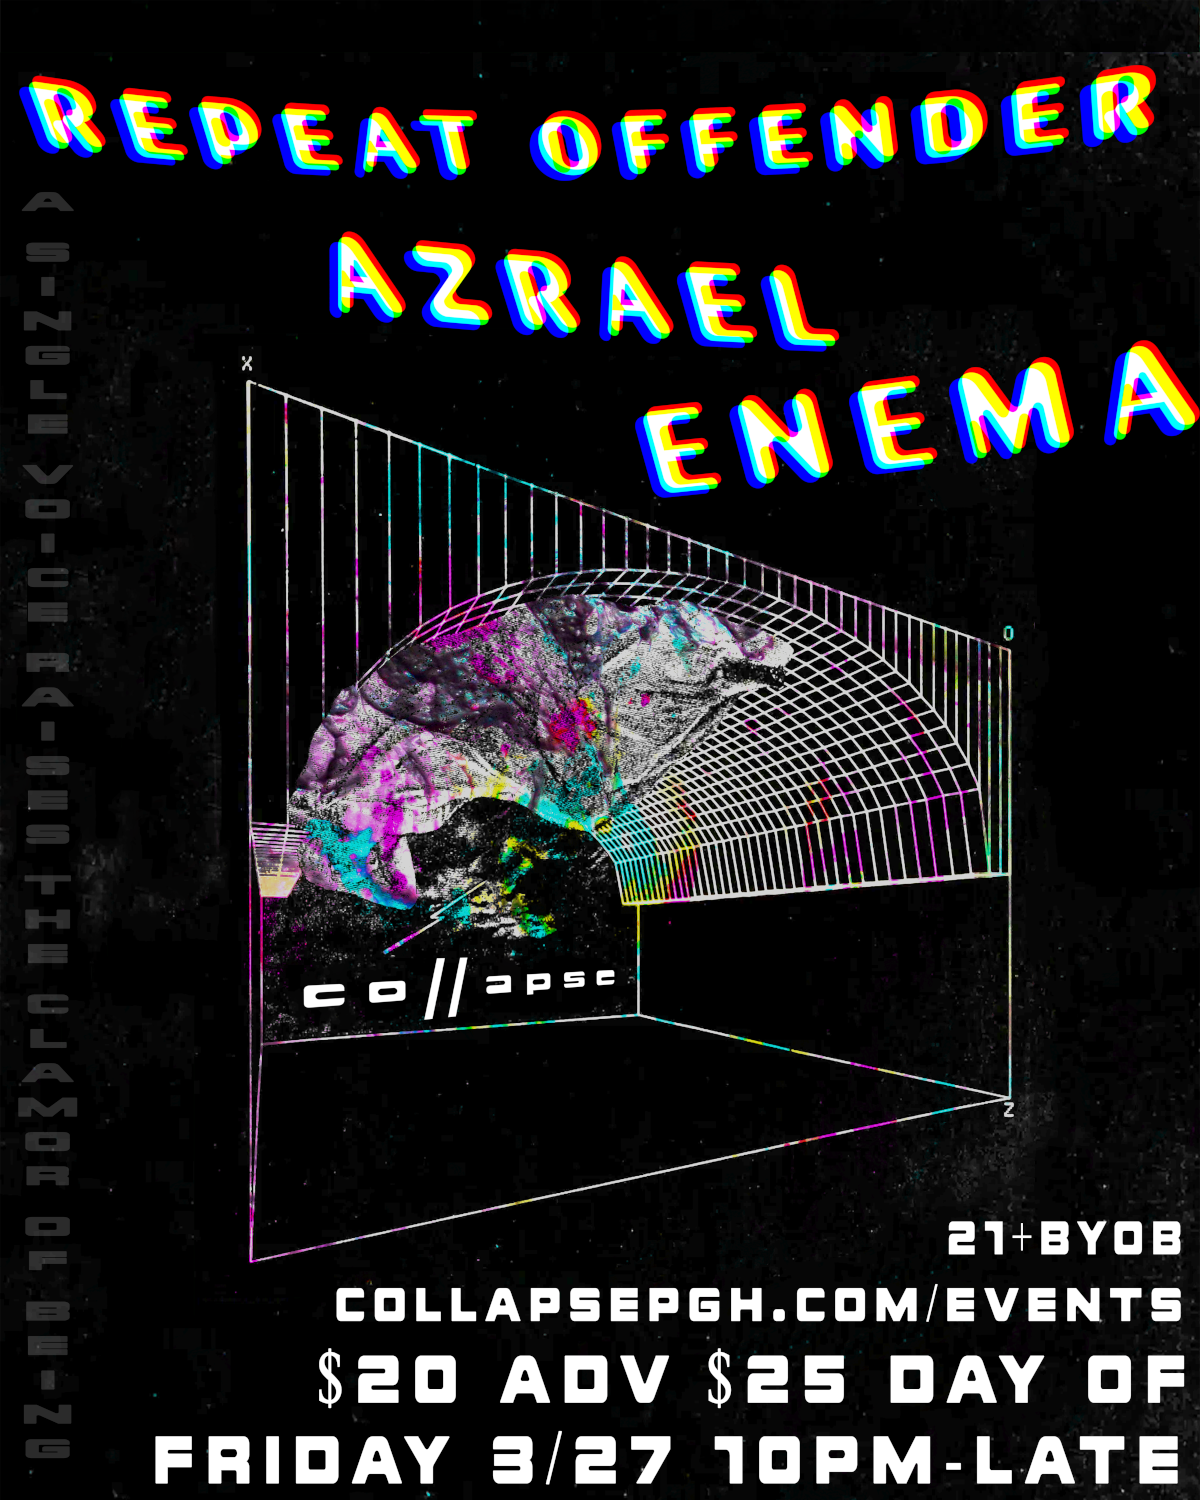
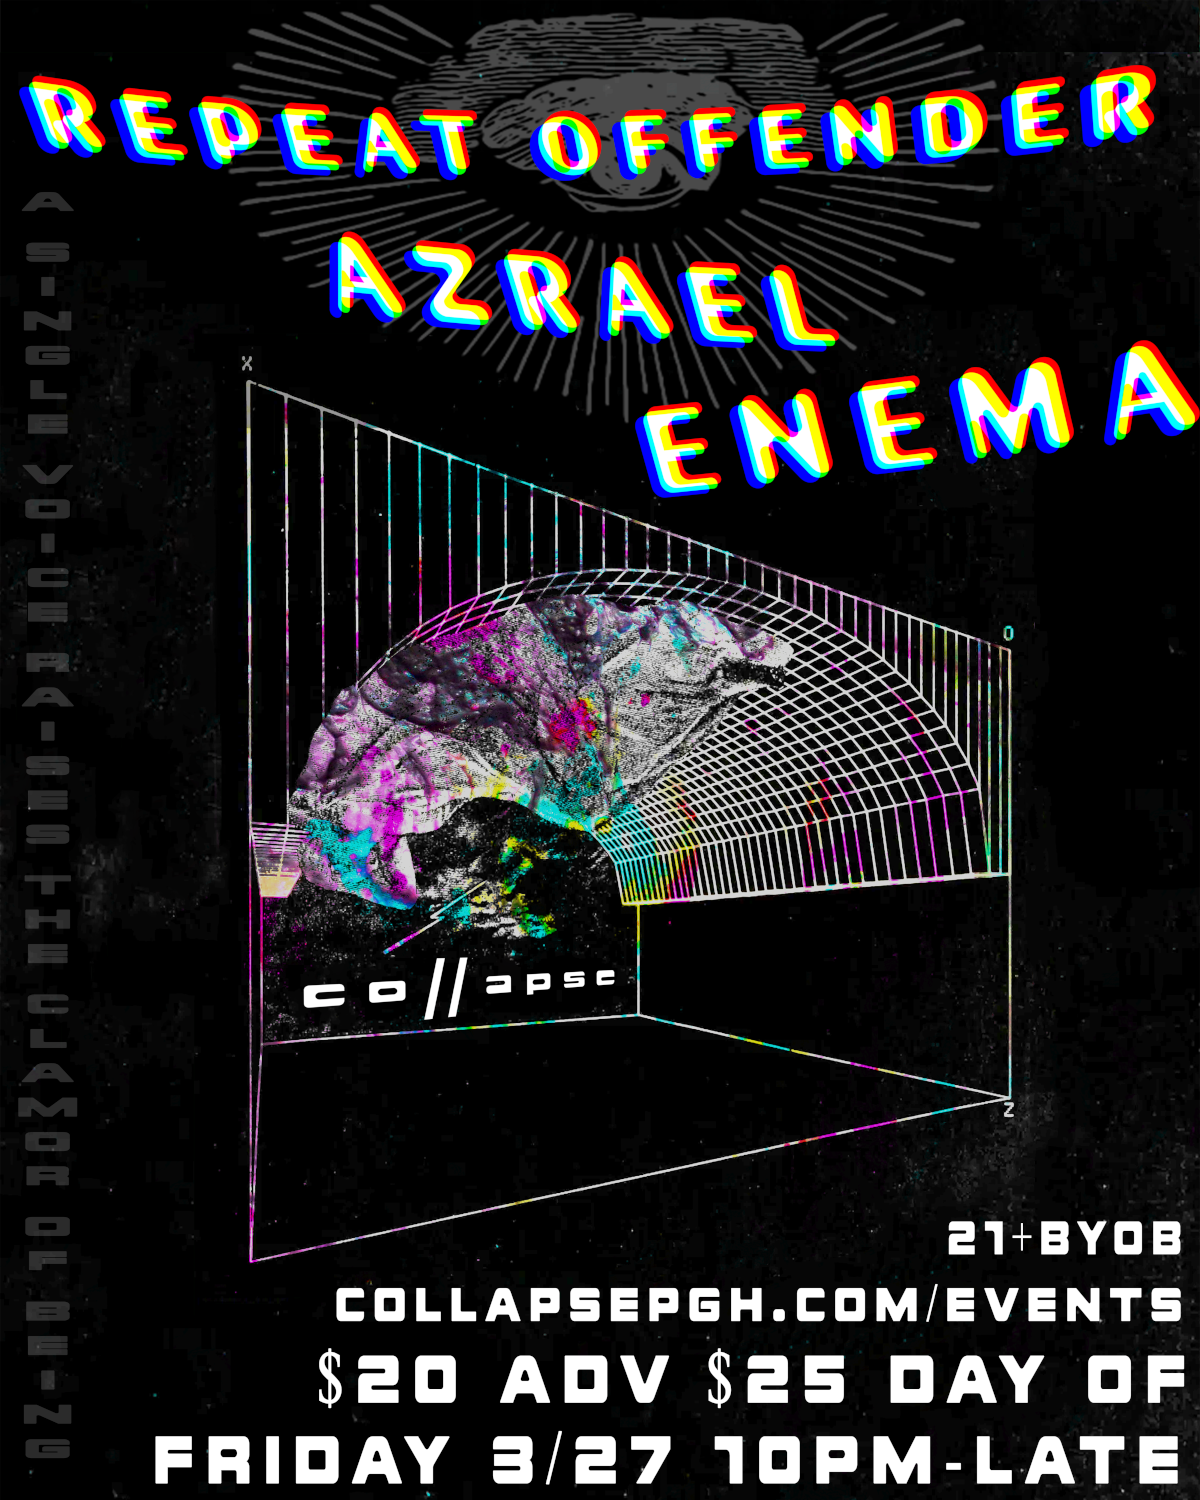
Update flyer, publish event

Changed region(s): [[0.185, 0.0, 0.8325, 0.276], [0.185, 0.2453, 0.2467, 0.276]]

diff --git a/src/events/2026-03-27.md b/src/events/2026-03-27.md
@@ -6,7 +6,7 @@ end: LATE
 price: $20 advance, $25 day-of
 image: /assets/images/2026-03-27.png
 hieventsID: 2
-draft: true
+draft: false
 ---
 Limited door tickets available.
 
